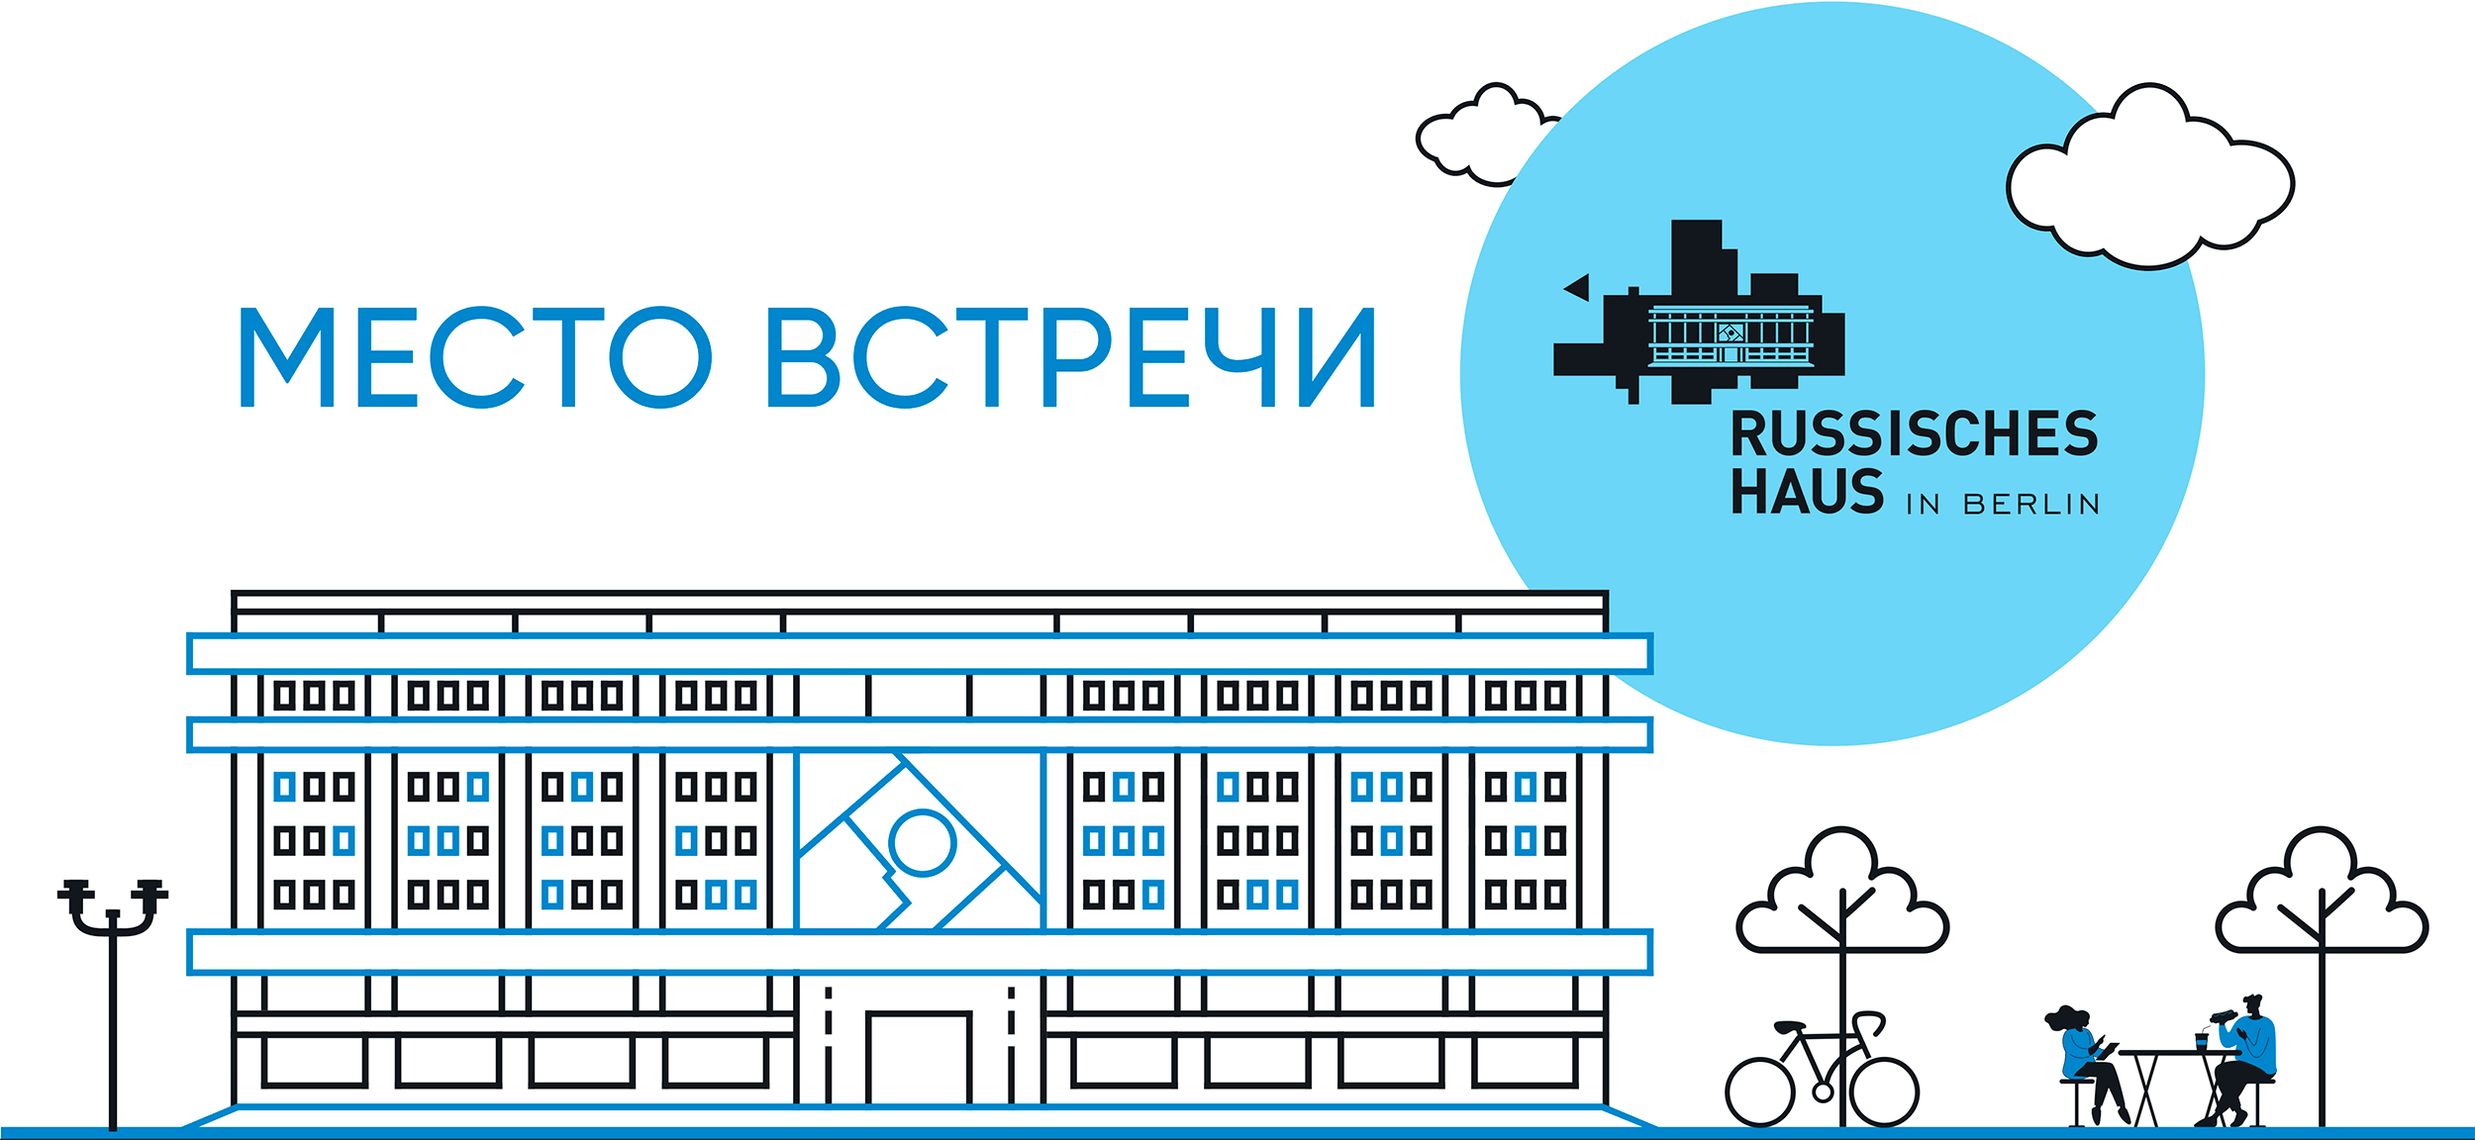
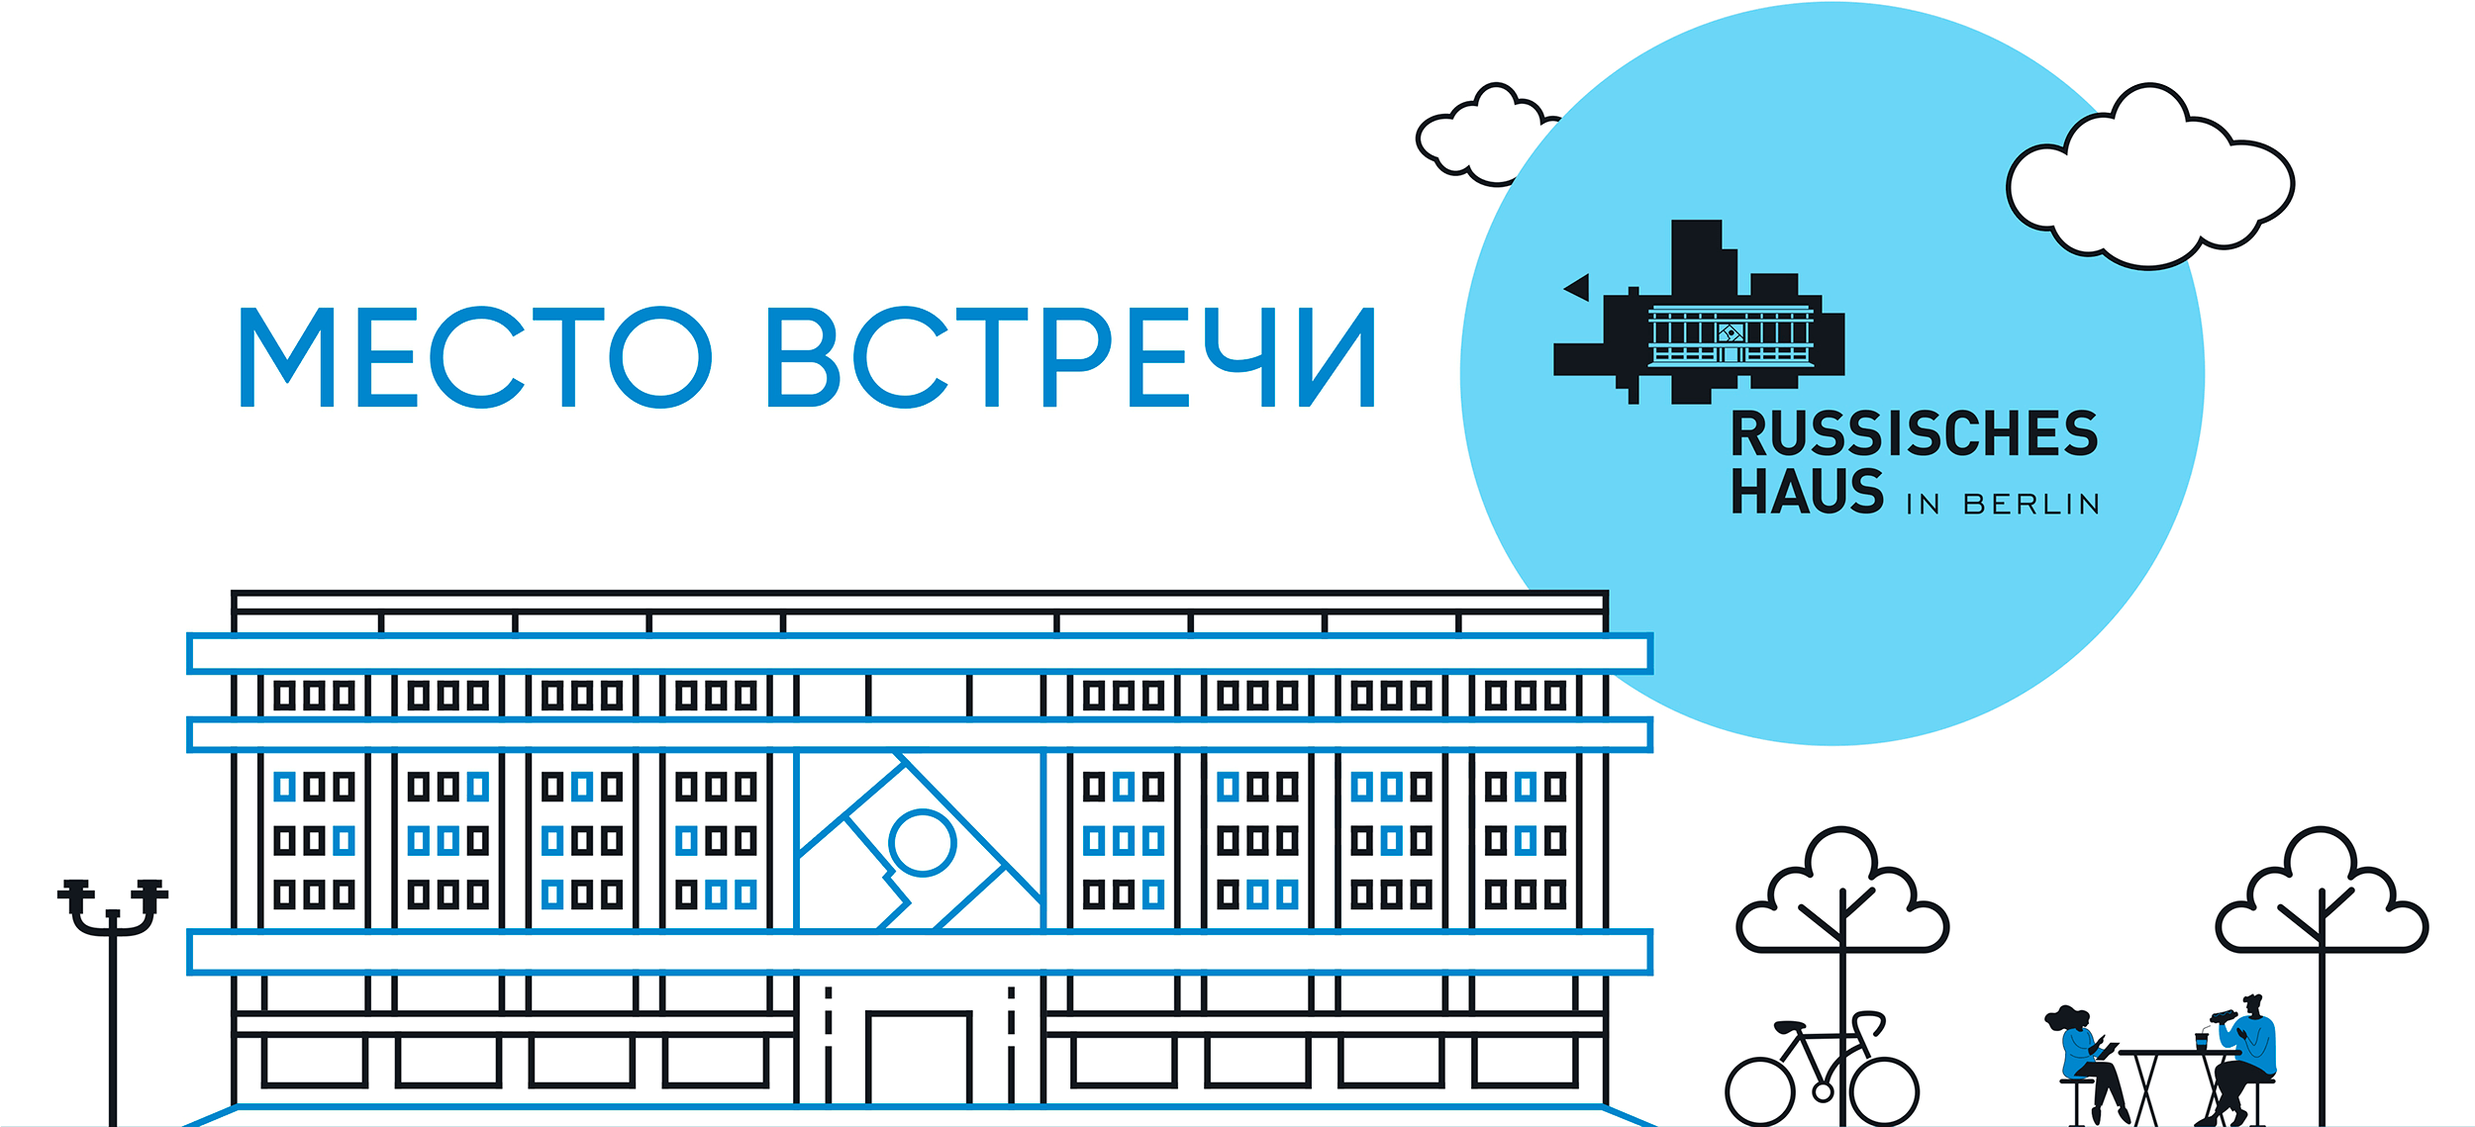
16/11 Home

diff --git a/components/Home/Events.tsx b/components/Home/Events.tsx
@@ -4,19 +4,18 @@ import React from "react";
 
 export default function Events() {
 
-    let items=['Item 1','Item 2','Item 3','Item 4'];
+    let items=['Item 1','Item 2','Item 3','Item 4','Item 5'];
     let itemList=items.map((item,index)=>{
         return (
             <div key={index} className="w-1/2
                     max-sm:w-full max-sm:first:mt-4 max-sm:my-2 max-sm:h-32 sm:max-md:h-44 md:max-xl:h-52
-                    sm:odd:pr-2.5 sm:even:pl-2.5 sm:max-xl:odd:pr-5
-                    sm:[&:nth-child(1)]:pb-5 sm:[&:nth-child(2)]:pb-5
-                    xl:odd:px-5 sm:even:pl-5
-                    sm:[&:nth-child(1)]:border-b
-                    sm:[&:nth-child(2)]:border-b sm:[&:nth-child(2)]:border-l [&:nth-child(2)]:border-black
-                    sm:[&:nth-child(3)]:pt-5
-                    sm:[&:nth-child(4)]:pt-5 sm:[&:nth-child(4)]:border-l [&:nth-child(4)]:border-black
-                    border-black lg:w-1/2 sm:aspect-square">
+                    sm:[&:nth-child(1)]:border-b sm:[&:nth-child(1)]:pr-5
+                    sm:[&:nth-child(2)]:border-b sm:[&:nth-child(2)]:border-l sm:[&:nth-child(2)]:px-5 sm:[&:nth-child(2)]:pb-5 sm:max-lg:[&:nth-child(2)]:pr-0
+                    sm:[&:nth-child(3)]:border-b lg:[&:nth-child(3)]:border-l lg:[&:nth-child(3)]:pl-5 sm:[&:nth-child(3)]:pb-5 sm:max-lg:[&:nth-child(3)]:pt-5 sm:max-lg:[&:nth-child(3)]:pr-5
+                    sm:[&:nth-child(4)]:pt-5 sm:[&:nth-child(4)]:pr-5 sm:max-lg:[&:nth-child(4)]:pr-0 sm:max-lg:[&:nth-child(4)]:pl-5 sm:max-lg:[&:nth-child(4)]:border-l sm:max-lg:[&:nth-child(4)]:pb-5 sm:max-lg:border-b
+                    sm:[&:nth-child(5)]:pt-5 sm:[&:nth-child(5)]:border-l sm:[&:nth-child(5)]:px-5 sm:max-lg:[&:nth-child(5)]:border-l-0 sm:max-lg:[&:nth-child(5)]:border-b-0 sm:max-lg:[&:nth-child(5)]:pl-0
+                    sm:[&:nth-child(6)]:pt-5 sm:[&:nth-child(6)]:pl-5 sm:[&:nth-child(6)]:border-l sm:max-lg:[&:nth-child(6)]:border-b-0
+                    border-black lg:w-1/3 sm:aspect-square">
                 <div className="relative h-full">
                     <img
                         src="/images/test/test-event-picture.png"
@@ -39,27 +38,23 @@ export default function Events() {
     return (
         <section className="border border-black border-t-0 p-5">
             <div className="flex flex-col xl:flex-row">
-                <div className="relative w-full sm:max-xl:flex-row sm:max-xl:flex xl:w-1/2 h-auto group/item xl:pr-5">
-                        <div className="flex flex-col justify-between sm:max-xl:w-1/2 max-sm:h-[calc(50%)] xl:h-[calc((100%/2)-1.5rem)] p-[30px] border border-black">
+                <div className="w-full  h-auto flex flex-wrap border-black max-lg:mt-0 max-xl:mt-5">
+                    <div className="relative w-full sm:w-1/2 lg:w-1/3 sm:max-xl:flex-row sm:max-xl:flex h-auto group/item sm:pr-5 sm:pb-5 sm:border-b sm:border-black max-md:h-44 md:max-xl:h-52">
+                        <div className="flex flex-col justify-between w-full h-full p-[30px] border border-black sm:aspect-square">
                             <div className={""}>
-                                <h4 className="font-gilbold uppercase text-lg lg:text-rhtitle mb-2">Городские сны</h4>
+                                <h4 className="font-gilbold uppercase text-[18px] xl:text-rhtitle mb-2">Городские сны</h4>
+                                 <div className={"sm:max-md:line-clamp-1"}>
                                 <p>Международный арт проект</p>
                                 <p>фотография, живопись, графика, скульптура</p>
+                                 </div>
                             </div>
                             <div>
-                                <h4 className="max-md:mt-4 font-gilbold uppercase text-lg lg:text-rhtitle">До 30 апреля 2024</h4>
+                                <h4 className="max-md:mt-4 mt-2 font-gilbold uppercase text-[18px] xl:text-rhtitle">До 30 апреля 2024</h4>
                             </div>
                         </div>
-                        <div className="max-sm:h-[calc(50%)] xl:h-[calc((100%/2)+1.5rem)] sm:max-xl:w-1/2 bg-blue-900">
-                            <img
-                                src="/images/test/test-event-picture.png"
-                                alt="My Image"
-                                className="object-fill h-full w-full"
-                            />
-                        </div>
-                        <div className="group/details flex justify-between flex-col invisible md:group-hover/item:bg-theme-red md:group-hover/item:visible w-full xl:w-[calc((100%)-20px)] h-full top-0 left-0 absolute p-[30px] transition ease-in duration-0">
+                        <div className="group/details flex justify-between flex-col invisible md:group-hover/item:bg-theme-red xl:group-hover/item:visible w-[calc((100%)-20px)] h-[calc((100%)-20px)] top-0 left-0 absolute p-[30px] transition ease-in duration-0 sm:aspect-square">
 
-                                <div className="text-rhregular text-white space-y-2 max-h-[calc(90%)] ">
+                            <div className="text-rhregular text-white space-y-2 max-h-[calc(90%)] ">
                                 <p>Повседневная практика показывает, что дальнейшее развитие различных форм деятельности
                                     представляет собой интересный эксперимент проверки модели развития. Равным образом
                                     укрепление и развитие структуры представляет собой интересный эксперимент проверки
@@ -71,17 +66,17 @@ export default function Events() {
                                     развития.</p>
 
 
-                                </div>
+                            </div>
 
-                                <div className="link text-rhbuttons text-white font-gilbold uppercase">
-                                    <a href="" title="" className="flex flex-row items-center space-x-3"><span>→</span> <span>Подробнее</span></a>
-                                </div>
+                            <div className="link text-rhbuttons text-white font-gilbold uppercase">
+                                <a href="" title="" className="flex flex-row items-center space-x-3"><span>→</span> <span>Подробнее</span></a>
+                            </div>
 
                         </div>
                     </div>
-                <div className="w-full h-auto flex flex-wrap border-black max-sm:mt-0 max-xl:mt-5 xl:border-l xl:w-1/2">
+
                     {itemList}
-                    <div className="pl-5 pt-5 w-full xl:w-1/2 text-base md:text-rhbuttons text-black font-gilbold uppercase flex max-xl:items-center max-xl:justify-center">
+                    <div className="pt-5 w-full xl:w-1/2 text-base md:text-rhbuttons text-black font-gilbold uppercase flex max-xl:items-center max-xl:justify-center">
                         <a href="" className="space-x-3" title="">
                             <span>→</span>
                             <span>Другие события</span>

diff --git a/components/Home/Social.tsx b/components/Home/Social.tsx
@@ -6,50 +6,80 @@ function Social() {
             <div className="flex flex-col sm:flex-row border border-black border-t-0 p-5 gap-4">
                 <div className="w-full sm:w-1/2">
                         <div className="flex items-center justify-center gap-4">
-                            <a href=" " className="w-1/3 aspect-square flex items-center justify-center bg-theme-gray/10 hover:bg-transparent hover:border border-black" title="">
+                            <a href=" " className="w-1/3 aspect-square flex items-center justify-center bg-theme-gray/10 hover:bg-transparent hover:border border-black group/item" title="">
                                 <img
                                     src="/images/social/Instagram.svg"
                                     alt="My Image"
-                                    className="h-[50px] lg:h-[75px] w-auto"
+                                    className="h-[50px] lg:h-[75px] w-auto group-hover/item:hidden"
+                                />
+                                <img
+                                    src="/images/social/Instagram_color.svg"
+                                    alt="My Image"
+                                    className="h-[50px] lg:h-[75px] w-auto hidden group-hover/item:inline-block"
                                 />
                             </a>
-                            <a href=" " className="w-1/3 aspect-square flex items-center justify-center bg-theme-gray/10 hover:bg-transparent hover:border border-black" title="">
+                            <a href=" " className="w-1/3 aspect-square flex items-center justify-center bg-theme-gray/10 hover:bg-transparent hover:border border-black group/item" title="">
                                         <img
                                             src="/images/social/telegram.svg"
                                             alt="My Image"
-                                            className="h-[50px] lg:h-[75px] w-auto"
+                                            className="h-[50px] lg:h-[75px] w-auto group-hover/item:hidden"
                                         />
+                                <img
+                                    src="/images/social/telegram_color.svg"
+                                    alt="My Image"
+                                    className="h-[50px] lg:h-[75px] w-auto hidden group-hover/item:inline-block"
+                                />
                             </a>
-                            <a href=" " className="w-1/3 aspect-square flex items-center justify-center bg-theme-gray/10 hover:bg-transparent hover:border border-black" title="">
+                            <a href=" " className="w-1/3 aspect-square flex items-center justify-center bg-theme-gray/10 hover:bg-transparent hover:border border-black group/item" title="">
                                         <img
                                             src="/images/social/facebook.svg"
                                             alt="My Image"
-                                            className="h-[50px] lg:h-[75px] w-auto"
+                                            className="h-[50px] lg:h-[75px] w-auto group-hover/item:hidden"
                                         />
+                                <img
+                                    src="/images/social/facebook_color.svg"
+                                    alt="My Image"
+                                    className="h-[50px] lg:h-[75px] w-auto hidden group-hover/item:inline-block"
+                                />
                             </a>
                         </div>
                 </div>
                 <div className="w-full  sm:w-1/2">
                     <div className="flex items-center justify-center gap-4">
-                        <a href=" " className="w-1/3 aspect-square flex items-center justify-center bg-theme-gray/10 hover:bg-transparent hover:border border-black" title="">
+                        <a href=" " className="w-1/3 aspect-square flex items-center justify-center bg-theme-gray/10 hover:bg-transparent hover:border border-black group/item" title="">
                             <img
                                 src="/images/social/youtube.svg"
                                 alt="My Image"
-                                className="h-[50px] lg:h-[75px] w-auto"
+                                className="h-[50px] lg:h-[75px] w-auto group-hover/item:hidden"
+                            />
+                            <img
+                                src="/images/social/youtube_color.svg"
+                                alt="My Image"
+                                className="h-[50px] lg:h-[75px] w-auto hidden group-hover/item:inline-block"
                             />
                         </a>
-                        <a href=" " className="w-1/3 aspect-square flex items-center justify-center bg-theme-gray/10 hover:bg-transparent hover:border border-black" title="">
+                        <a href=" " className="w-1/3 aspect-square flex items-center justify-center bg-theme-gray/10 hover:bg-transparent hover:border border-black group/item" title="">
                             <img
                                 src="/images/social/odnoklassniki.svg"
                                 alt="My Image"
-                                className="h-[50px] lg:h-[75px] w-auto"
+                                className="h-[50px] lg:h-[75px] w-auto group-hover/item:hidden"
+                            />
+                            <img
+                                src="/images/social/odnoklassniki_color.svg"
+                                alt="My Image"
+                                className="h-[50px] lg:h-[75px] w-auto hidden group-hover/item:inline-block"
                             />
                         </a>
-                        <a href=" " className="w-1/3 aspect-square flex items-center justify-center bg-theme-gray/10 hover:bg-transparent hover:border border-black" title="">
+                        <a href=" " className="w-1/3 aspect-square flex items-center justify-center bg-theme-gray/10 hover:bg-transparent hover:border border-black group/item" title="">
                             <img
                                 src="/images/social/vk.svg"
                                 alt="My Image"
-                                className="h-[50px] lg:h-[75px] w-auto"
+                                className="h-[50px] lg:h-[75px] w-auto group-hover/item:hidden"
+                            />
+                            <img
+                                src="/images/social/vk_color.svg"
+                                alt="My Image"
+                                className="h-[50px] lg:h-[75px] w-auto hidden group-hover/item:inline-block"
                             />
                         </a>
                     </div>

diff --git a/components/Header.tsx b/components/Header.tsx
@@ -6,11 +6,11 @@ export default function Header(){
     const [state, setState] = useState(false)
 
     return (
-    <nav className="max-sm:px-5 container mx-auto bg-white border-gray-200 dark:bg-gray-900 pt-5">
+    <nav className="px-5 container mx-auto bg-white border-gray-200 dark:bg-gray-900 pt-5">
 
         <div className="flex flex-wrap justify-between mx-auto">
             <a href="/" className="flex flex-none items-center">
-                <img src="images/logo-only-text.png" className="h-8 mr-3 inline-block" alt="" />
+                <img src="images/rushaus-logo.svg" className="h-4 mr-3 inline-block" alt="" />
             </a>
             <button data-collapse-toggle="navbar-default" type="button" className="inline-flex items-center p-2 w-10 h-10 justify-center text-sm text-gray-500 rounded-lg lg:hidden hover:bg-gray-100 focus:outline-none focus:ring-2 focus:ring-gray-200 dark:text-gray-400 dark:hover:bg-gray-700 dark:focus:ring-gray-600" aria-controls="navbar-default" aria-expanded="false">
                 <span className="sr-only">Open main menu</span>

diff --git a/components/Home/Slider.tsx b/components/Home/Slider.tsx
@@ -2,15 +2,17 @@
 import Image from 'next/image';
 export default function Slider(){
     return(
-        <section className="h-3/5">
-            <Image
-                src="/images/mesto-vstrechi.png"
-                alt="My Image"
-                width={100}
-                height={100}
-                layout="responsive"
-                objectFit="cover"
-            />
+        <section className="w-full border-[#0086cb] border-b-[6px]">
+            <div className={"h-3/5 xl:h-2/5 table mx-auto"}>
+                <Image
+                    src="/images/mesto-vstrechi.png"
+                    alt="My Image"
+                    width={100}
+                    height={100}
+                    layout="responsive"
+                    objectFit="cover"
+                />
+            </div>
         </section>
     )
 }

diff --git a/tailwind.config.ts b/tailwind.config.ts
@@ -53,6 +53,7 @@ const config: Config = {
         'sidebar-pattern': "url('/images/ru-flag-geometry-bg.png')",
         'map-pattern': "url('/images/russia-map-bg.png')",
         'common-pattern': "url('/images/common-background.jpg')",
+        'line-between': 'linear-gradient(#000,#000) center/1px 100% no-repeat',
       },
       colors: {
         'theme-red': '#e21d3a',
